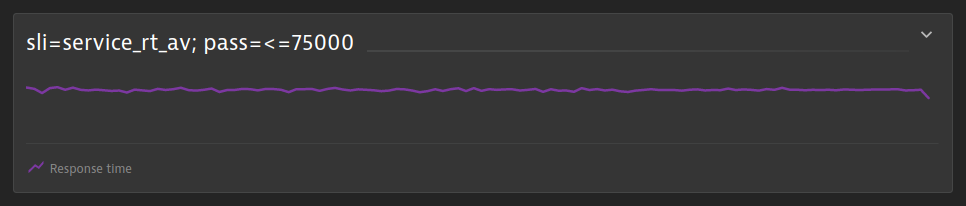
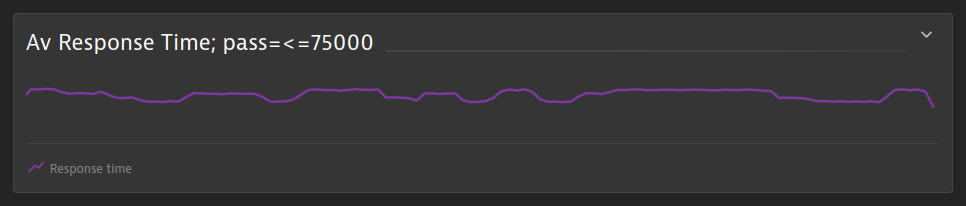
Improve tile examples in documentation

Changed region(s): [[0.0311, 0.4078, 0.9627, 0.5243], [0.0311, 0.1456, 0.4037, 0.2621], [0.9627, 0.4951, 0.9938, 0.5243]]

diff --git a/documentation/slis-via-dashboard.md b/documentation/slis-via-dashboard.md
@@ -29,7 +29,7 @@ In case dynatrace-service could not parse the tile title correctly it will stop 
 ### Examples
 * **Informational SLO**
   
-  To simply retrieve the value of an SLI purely for informational purpose, giving the tile a title is sufficient. As it does not include a pass criterion it will not be included in an evaluation. For example, the title `Av Response Time (Info)`: 
+  To retrieve the value of an SLI purely for informational purposes, giving the tile a title is sufficient. As it does not include a pass criterion it will not be included in an evaluation. For example, the title `Av Response Time (Info)`
 
   ![Example of an informational SLO](images/tile-example-infomational.png "Example of an informational SLO")
 
@@ -44,9 +44,47 @@ In case dynatrace-service could not parse the tile title correctly it will stop 
     key_sli: false
   ```
 
+* **Display name and pass criterion**
+  
+  To include an SLO as part of an evaluation, simply append a pass criterion. For example, the title `Av Response Time; pass=<=75000`
+
+  ![Example of an SLO with display name and pass criterion](images/tile-example-display-name-pass.png "Example of an SLO with display name and pass criterion")
+
+  results in an SLO objective:
+
+  ```{yaml}
+  - sli: Av_Response_Time
+    displayName: Av Response Time
+    pass:
+      - criteria:
+          - <=75000
+    warning: []
+    weight: 1
+    key_sli: false
+  ```
+
+* **SLI name and pass criterion**
+  
+  Alternatively, create an SLO by providing an SLI name and a pass criterion. For example, the title `sli=service_rt_av; pass=<=75000`
+
+  ![Example of an SLO with SLI name and pass criterion](images/tile-example-sli-name-pass.png "Example of an SLO with SLI name and pass criterion")
+
+  results in an SLO objective:
+
+  ```{yaml}
+  - sli: service_rt_av
+    displayName: service_rt_av
+    pass:
+      - criteria:
+          - <=75000
+    warning: []
+    weight: 1
+    key_sli: false
+  ```
+
 * **Custom SLI name with pass and warning criteria**
 
-  The SLI name as well as the properties of the SLO may be customized. For example, the title `Av Svc Resp. Time; sli=srt_av; pass=<=70000; warning=<=80000; key=true; weight=2`:
+  The SLI name as well as the properties of the SLO may be customized. For example, the title `Av Svc Resp. Time; sli=srt_av; pass=<=70000; warning=<=80000; key=true; weight=2`
 
   ![Example of a customized SLO](images/tile-example-customized.png "Example of a customized SLO")
 
@@ -65,24 +103,13 @@ In case dynatrace-service could not parse the tile title correctly it will stop 
     key_sli: true
   ```
 
-* **Display name and pass criterion**
-  
-  Alternatively, create an SLO simply by appending a pass criterion. For example, the title `sli=service_rt_av; pass=<=75000`:
+* **Excluded tile**
 
-  ![Example of an SLO with display name](images/tile-example-display-name-pass.png "Example of an SLO with display name")
+  To exclude a tile, simply add the key-value pair `exclude=true`. For example, the title `Av Response Time; exclude=true`
 
-  results in an SLO objective:
+  ![Example of an excluded tile](images/tile-example-exclude.png "Example of an excluded tile")
 
-  ```{yaml}
-  - sli: service_rt_av
-    displayName: service_rt_av
-    pass:
-      - criteria:
-          - <=75000
-    warning: []
-    weight: 1
-    key_sli: false
-  ```
+  will ensure that the tile is not processed.
 
 ### Logical AND/OR operators for pass and warning criteria
 
